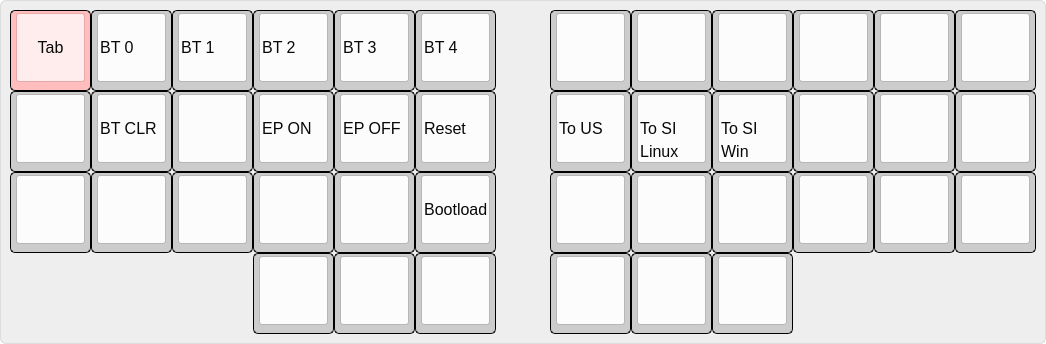
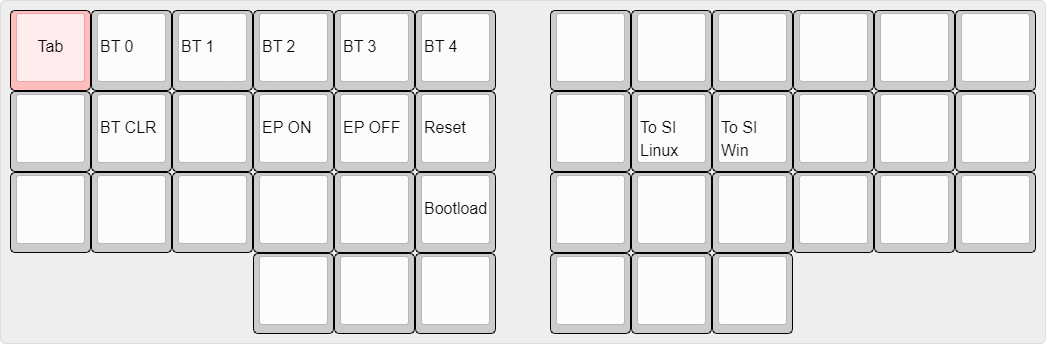
Remove US layout

diff --git a/README.rst b/README.rst
@@ -55,7 +55,6 @@ ZMK layer
 - `Bootl`: Reset this side of the keyboard to bootloader mode
 - `EP ON`: Enable external power (enable VCC power output)
 - `EP OFF`: Disable external power (disable VCC power output)
-- `To US`: Switch keyboard layout to match US host layout
 - `To SI Linux`: Switch keyboard layout to match SI host layout, Linux host
 - `To SI Win`: Switch keyboard layout to match SI host layout, Windows host
 
